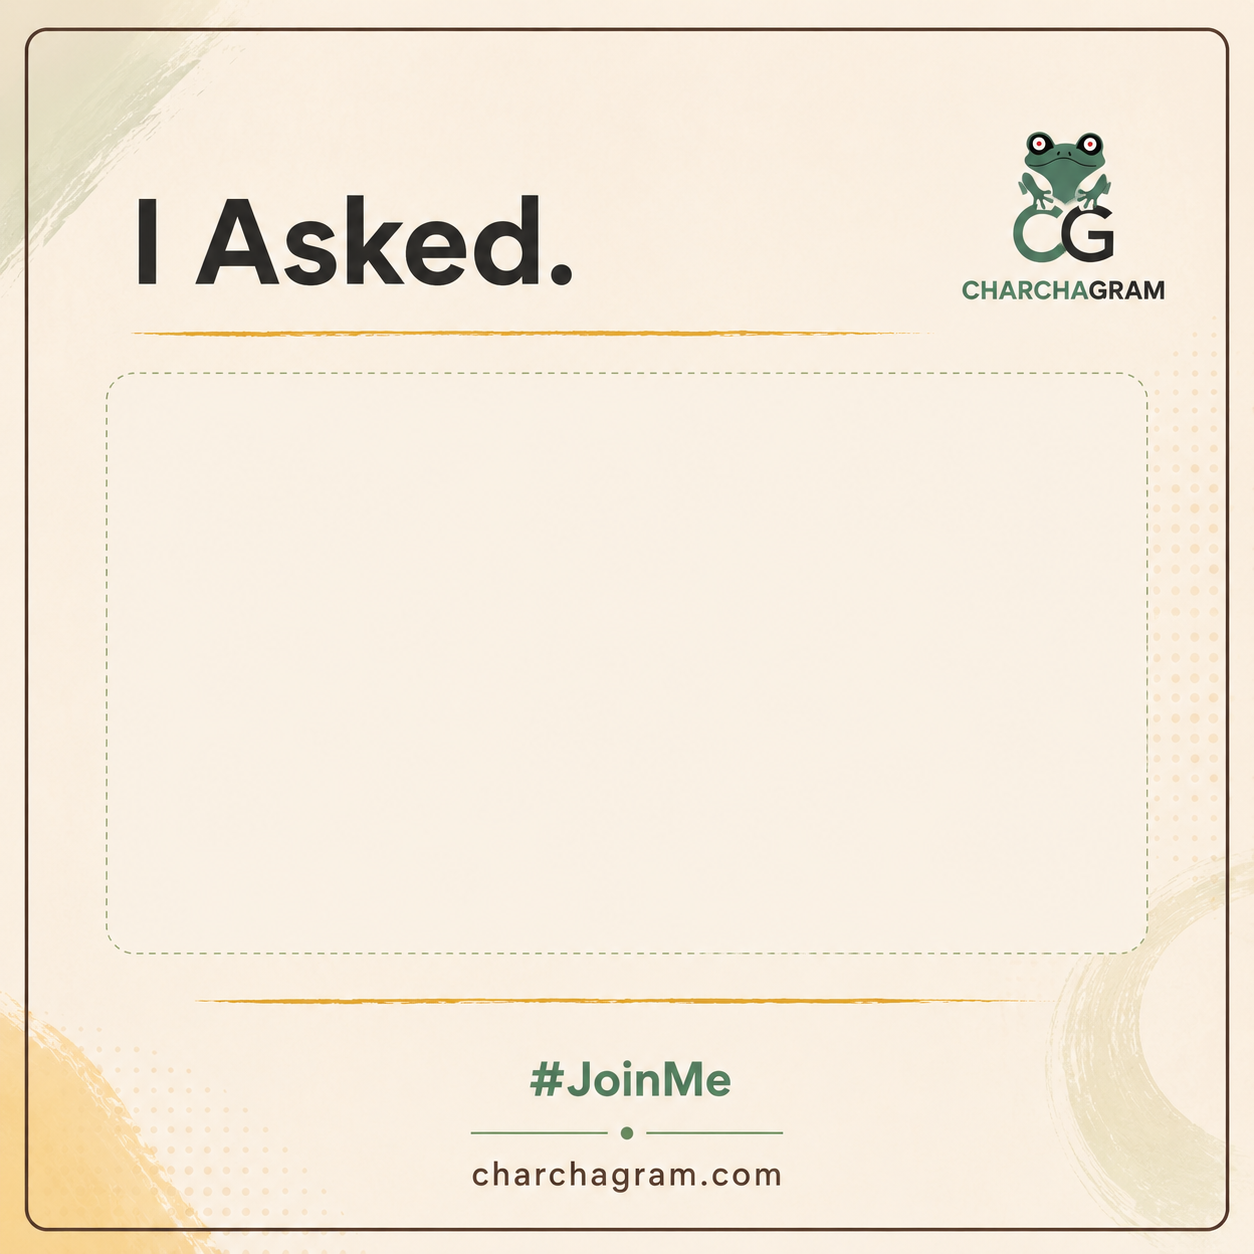
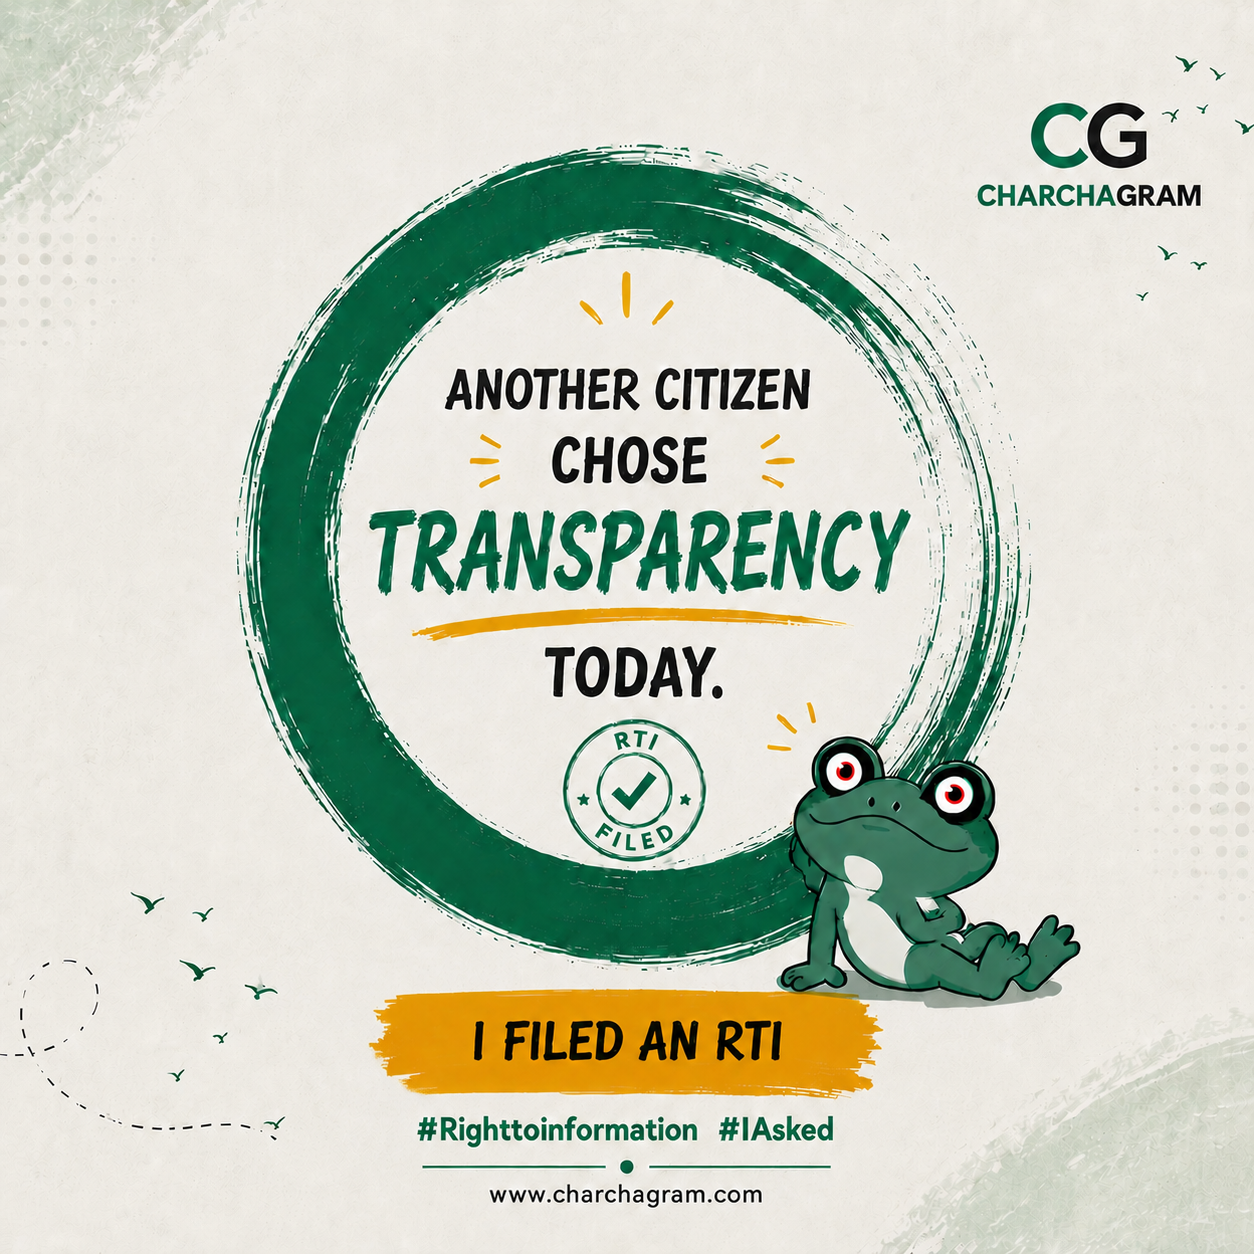
feat: new share card template, /s/:id short link, Instagram subtext
- Replace social_media_template.png with CharchaGram transparency poster
- Add /s/:id backend short-link redirect → share_card_url (mirrors /r/:id for PDF)
- Use charchagram.com/s/:id instead of raw Supabase URL in WhatsApp message
- Update card line subtext to "share your RTI story on Instagram"
- Remove CharchaGram callout block from About page

diff --git a/frontend/src/pages/DraftRTI.jsx b/frontend/src/pages/DraftRTI.jsx
@@ -543,17 +543,18 @@ export default function DraftRTI() {
     const fileRtiUrl = "https://www.charchagram.com/file-rti";
     const filedDate = new Date().toLocaleDateString("en-IN", { day: "numeric", month: "long", year: "numeric" });
 
+    const shortCardUrl = `https://www.charchagram.com/s/${savedDraftId}`;
     const cardLine = (includeCard && shareCardUrl)
       ? draftLang === "hi"
-        ? `\n\n*दूसरों को भी पूछने की प्रेरणा दें — अपनी RTI कहानी शेयर करें:*\n${shareCardUrl}`
-        : `\n\n*Inspire others to ask — share your RTI story:*\n${shareCardUrl}`
+        ? `\n\n*दूसरों को भी पूछने की प्रेरणा दें — अपनी RTI कहानी शेयर करें:*\n${shortCardUrl}`
+        : `\n\n*Inspire others to ask — share your RTI story on Instagram:*\n${shortCardUrl}`
       : "";
 
     const shortPdfUrl = `https://www.charchagram.com/r/${savedDraftId}`;
 
     const message = draftLang === "hi"
-      ? `*RTI दाखिल कर दी गई!*\n\n_सूचना का अधिकार अधिनियम, 2005 के तहत आपकी ओर से RTI दाखिल की गई है।_\n\n*विभाग:* ${dept}${state ? ` (${state})` : ""}\n*विषय:* ${editedSubject}\n*दिनांक:* ${filedDate}\n\n*आपकी दाखिल RTI यहाँ देखें:*\n${shortPdfUrl}${cardLine}\n\n*खुद RTI दाखिल करना चाहते हैं?*\n${fileRtiUrl}\n\n_#RTI #SachJannaHaHamara_`
-      : `*Your RTI has been filed!*\n\n_An RTI was filed on your behalf under the Right to Information Act, 2005._\n\n*Department:* ${dept}${state ? ` (${state})` : ""}\n*Subject:* ${editedSubject}\n*Filed on:* ${filedDate}\n\n*View your filed RTI here:*\n${shortPdfUrl}${cardLine}\n\n*Want to file your own RTI?*\n${fileRtiUrl}\n\n_#RTI #ActiveDemocracy_`;
+      ? `*RTI दाखिल कर दी गई!*\n\n_सूचना का अधिकार अधिनियम, 2005 के तहत आपकी ओर से RTI दाखिल की गई है।_\n\n*विभाग:* ${dept}${state ? ` (${state})` : ""}\n*विषय:* ${editedSubject}\n*दिनांक:* ${filedDate}\n\n*आपकी दाखिल RTI यहाँ देखें:*\n${shortPdfUrl}${cardLine}\n\n*खुद RTI दाखिल करना चाहते हैं?*\n${fileRtiUrl}\n\nFollow us on Instagram: instagram.com/__charchagram__\n\n_#RTI #SachJannaHaHamara_`
+      : `*Your RTI has been filed!*\n\n_An RTI was filed on your behalf under the Right to Information Act, 2005._\n\n*Department:* ${dept}${state ? ` (${state})` : ""}\n*Subject:* ${editedSubject}\n*Filed on:* ${filedDate}\n\n*View your filed RTI here:*\n${shortPdfUrl}${cardLine}\n\n*Want to file your own RTI?*\n${fileRtiUrl}\n\nFollow us on Instagram: instagram.com/__charchagram__\n\n_#RTI #ActiveDemocracy_`;
 
     const url = waPhone
       ? `https://wa.me/${waPhone}?text=${encodeURIComponent(message)}`

diff --git a/frontend/src/pages/About.jsx b/frontend/src/pages/About.jsx
@@ -153,38 +153,6 @@ export default function About() {
                 ))}
               </div>
             </div>
-
-            {/* CharchaGram callout */}
-            <div
-              className="rounded-[var(--r-md)] p-5"
-              style={{ background: "var(--glass)", border: "1px solid var(--rule)" }}
-            >
-              <span className="section-label block mb-2">{t("about_initiative_label")}</span>
-              <div className="flex flex-col sm:flex-row sm:items-center sm:justify-between gap-3">
-                <div>
-                  <span className="font-semibold text-base" style={{ color: "var(--ink)" }}>
-                    CharchaGram
-                  </span>
-                  <span className="mx-2" style={{ color: "var(--rule-strong)" }}>—</span>
-                  <span className="text-sm italic" style={{ color: "var(--ink-3)" }}>
-                    "Discussions into Accountability"
-                  </span>
-                  <p className="text-sm mt-1" style={{ color: "var(--ink-3)" }}>
-                    {lang === "hi"
-                      ? "चुनाव पारदर्शिता के लिए नागरिक जुड़ाव मंच — उम्मीदवार जानकारी और जन-संवाद"
-                      : "Electoral transparency platform — candidate information and civic Q&A for informed voters"}
-                  </p>
-                </div>
-                <a
-                  href="https://www.charchagram.com"
-                  target="_blank"
-                  rel="noopener noreferrer"
-                  className="btn-secondary text-sm px-4 py-1.5 whitespace-nowrap flex-shrink-0"
-                >
-                  Visit ↗
-                </a>
-              </div>
-            </div>
           </div>
         </div>
       </section>

diff --git a/backend/index.js b/backend/index.js
@@ -73,6 +73,20 @@ app.get("/r/:id", async (req, res) => {
   res.redirect(301, data.filed_pdf_url);
 });
 
+// Short-link redirect: /s/:draftId → share_card_url
+app.get("/s/:id", async (req, res) => {
+  const { data, error } = await supabase
+    .from("rti_drafts")
+    .select("share_card_url")
+    .eq("id", req.params.id)
+    .single();
+
+  if (error || !data?.share_card_url) {
+    return res.status(404).send("Not found");
+  }
+  res.redirect(301, data.share_card_url);
+});
+
 // Health check
 app.get("/health", (_req, res) => res.json({ status: "ok" }));
 
